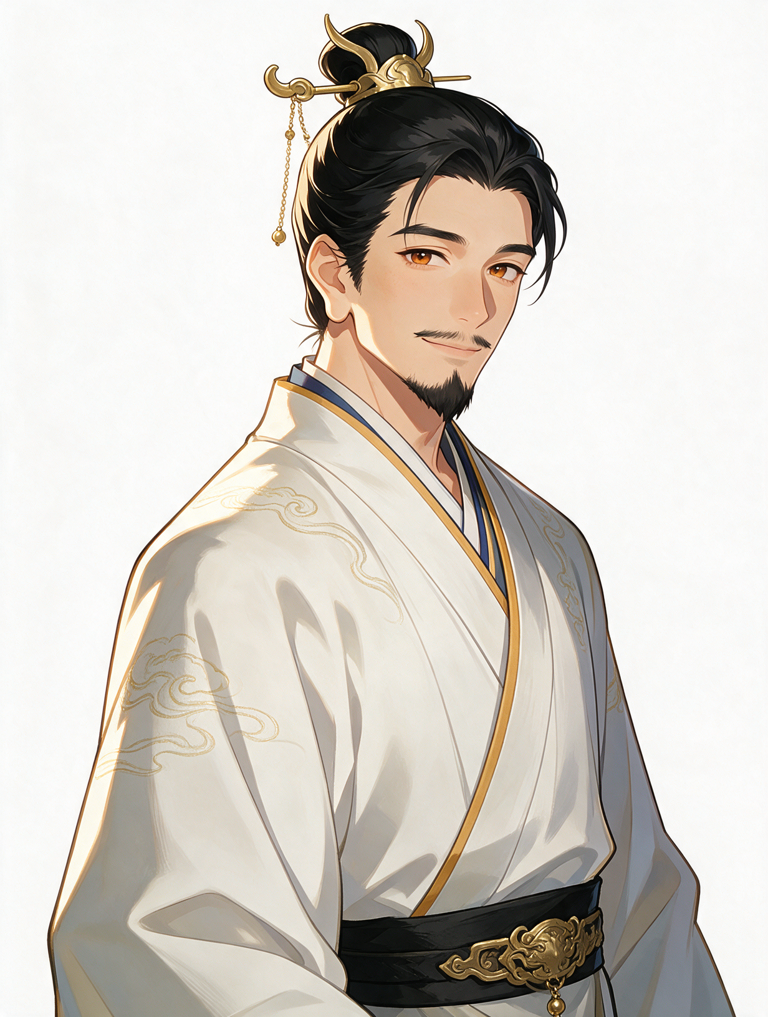
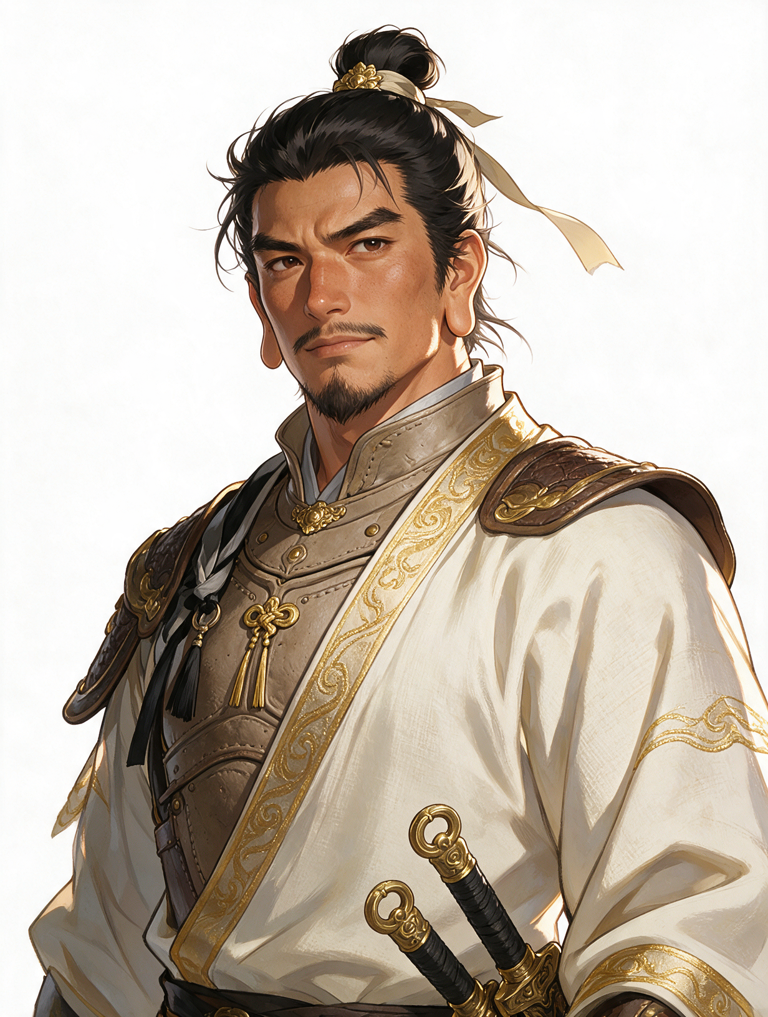
Liu Bei dialogue portrait rerolls (face_liubei, face_liubei_b x3); old one kept as face_liubei--old
Claude-Session: https://claude.ai/code/session_01XwioqPyhiC6zZKXXBBok7C

diff --git a/tools/tk_stills.py b/tools/tk_stills.py
@@ -637,6 +637,16 @@ FACE_LOOKS = {
     "caiyong": ("Cai Yong", "a sorrowful old scholar with a grey beard, in a plain scholar's robe and cap"),
     "chengpu": ("Cheng Pu", "a veteran general with a grizzled beard, in red armour, holding a long spear"),
     "handang": ("Han Dang", "a tough general with a square jaw and short beard, in red armour, holding a broadsword"),
+    # the hero, less pretty (the user: "too much of a pretty boy, make him look more like a protagonist");
+    # the stills keep CAST's look
+    "liubei": ("Liu Bei", "the hero of the story, a determined man of twenty-eight, broad-shouldered and rugged, a "
+                          "strong jaw and a sun-weathered face, short black beard and moustache, long earlobes, steady "
+                          "resolute eyes under heavy brows, hair in a topknot with a few loose strands, a white robe "
+                          "with gold trim over light leather armour, the hilts of twin swords at his hip"),
+    "liubei_b": ("Liu Bei", "a battle-hardened young hero of twenty-eight, the leader of a band of volunteers: lean and "
+                            "tough, a short black beard, long earlobes, a faint scar on his cheekbone, a fierce confident "
+                            "half-smile, hair tied up in a topknot, a dusty white robe with gold trim, sleeves bound for "
+                            "fighting, one hand resting on a sword hilt"),
 }
 FACE_STYLE = ("In the style of Genshin Impact character art: polished anime cel shading, clean lineart, vibrant "
               "colours, soft rim light. Plain flat pure white background, nothing else behind the figure. Han dynasty "
